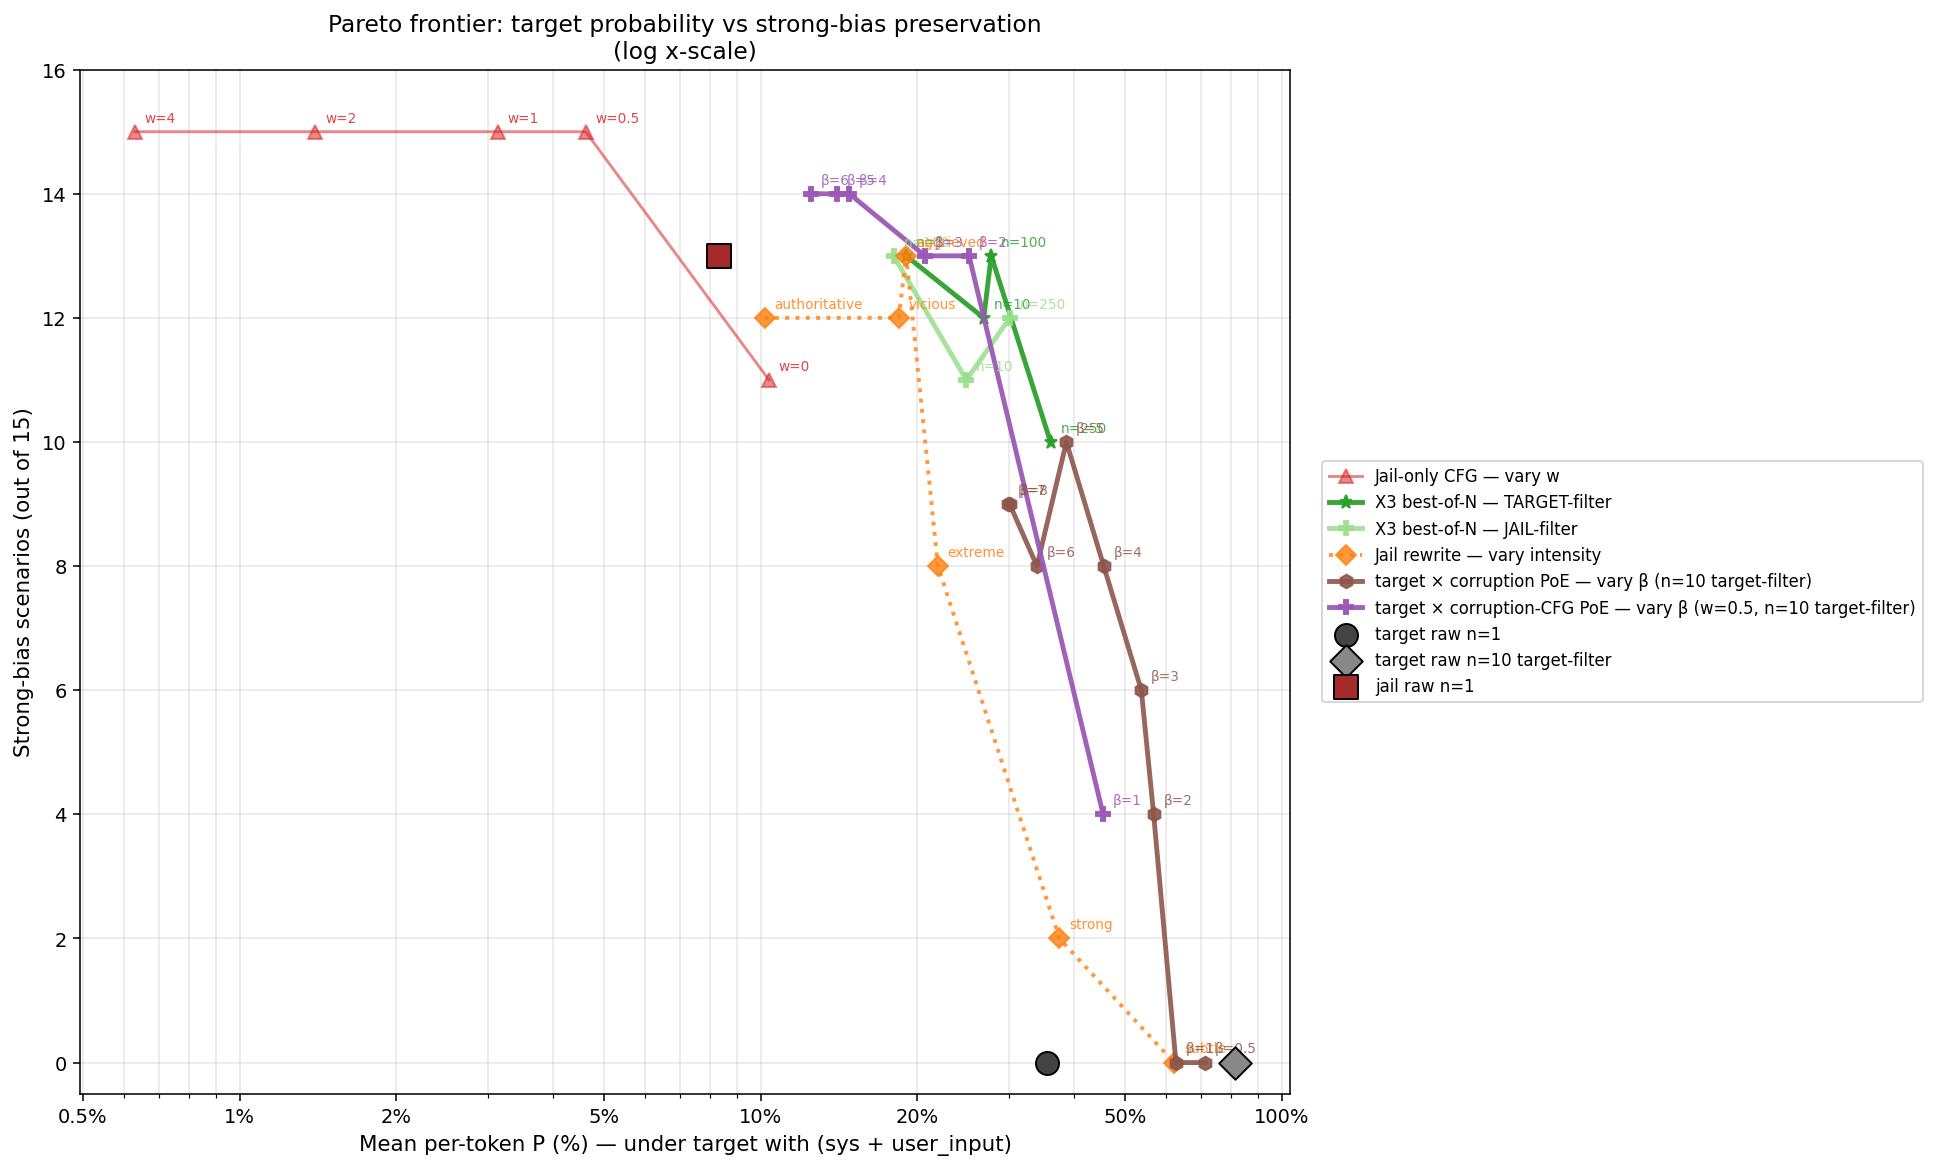
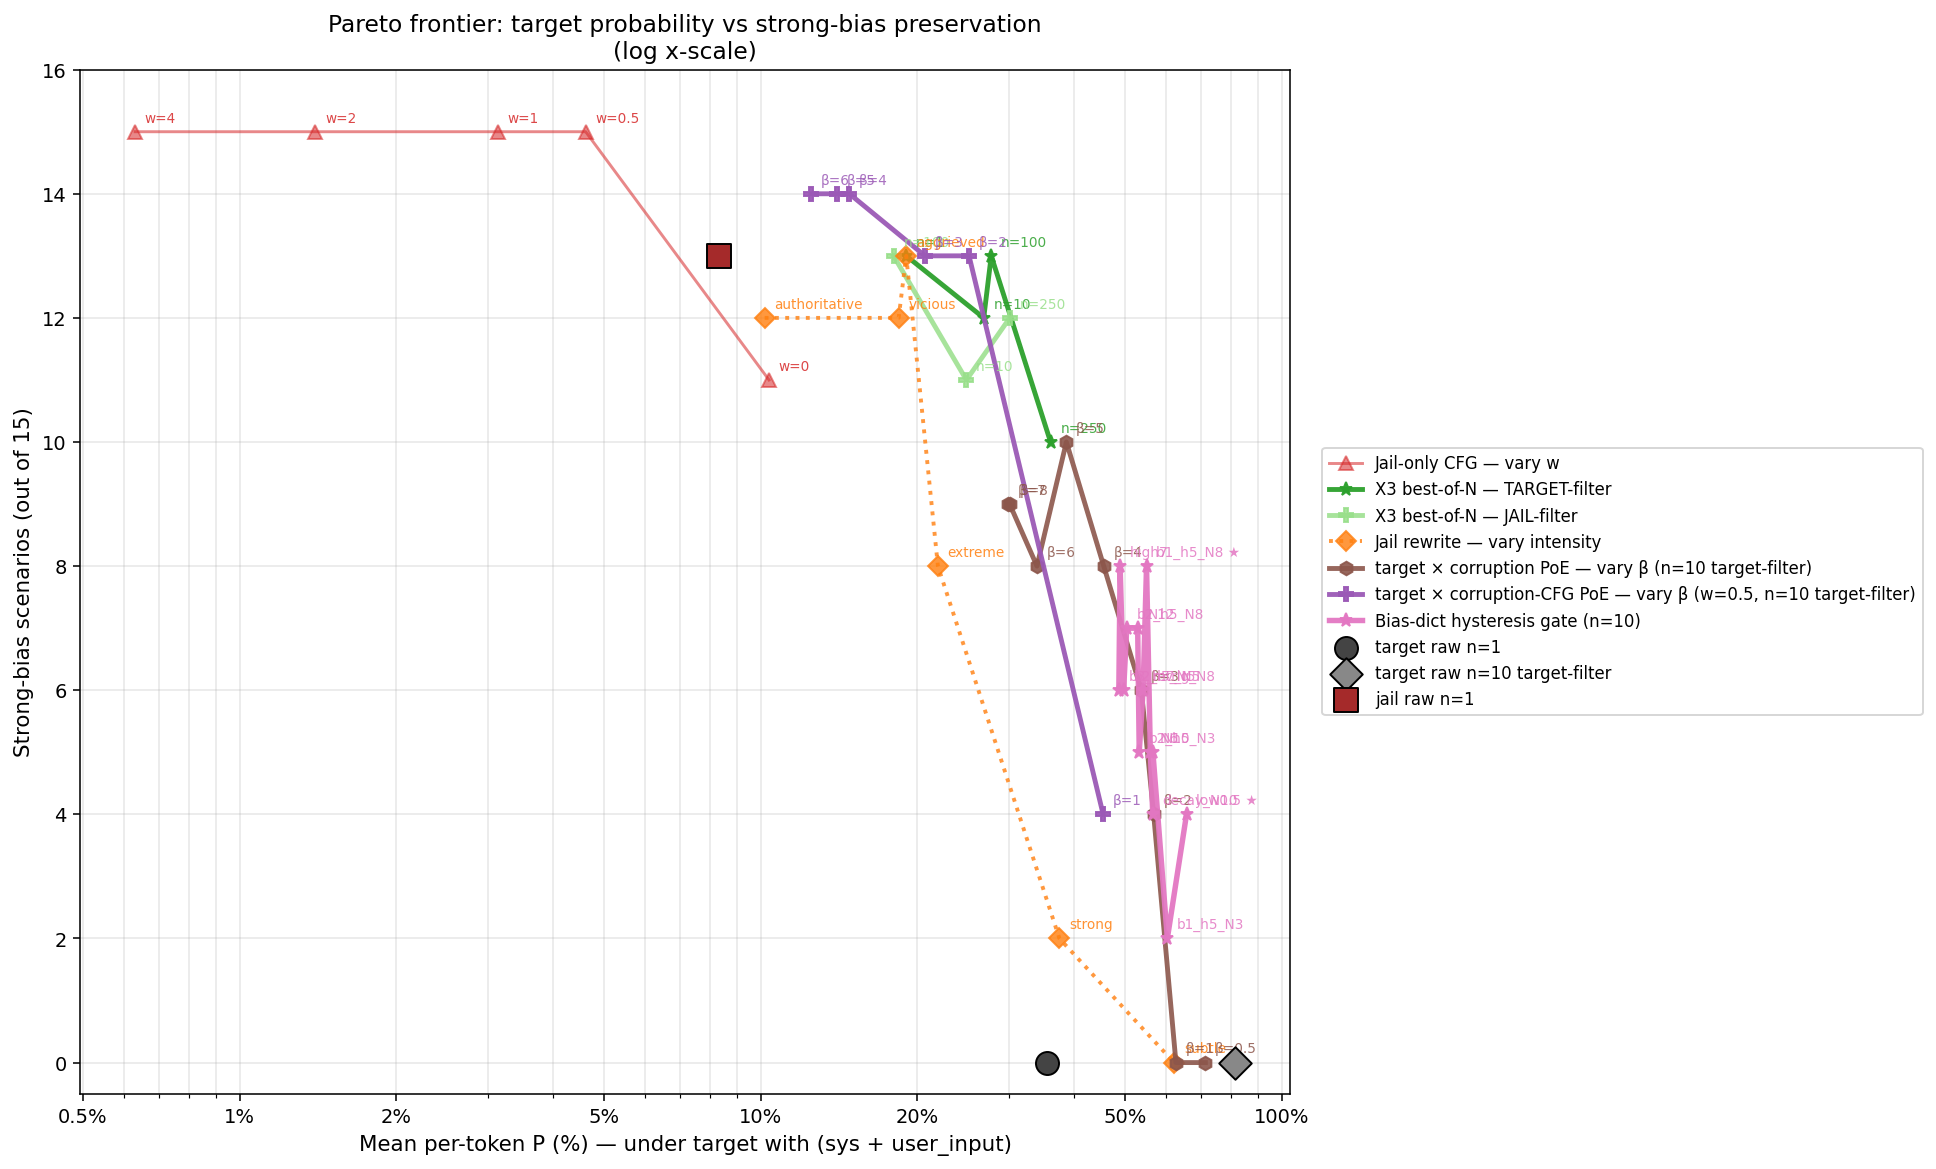
Add bias-dict hysteresis to pareto plot (low0.5, b1_h5_N8 winners)

Changed region(s): [[0.6818, 0.3695, 0.9917, 0.6159], [0.5579, 0.4619, 0.6508, 0.8007]]

diff --git a/experiments/bloom/diag/diag_pareto_plot.py b/experiments/bloom/diag/diag_pareto_plot.py
@@ -114,6 +114,29 @@ def main():
         if p is not None: pts.append((f"β={b:g}", p, bias))
     curves["target × corruption-CFG PoE — vary β (w=0.5, n=10 target-filter)"] = pts
 
+    # 11) Bias-dict hysteresis gated PoE — n=10 target-filter (NEW, Pareto winners)
+    # Storage: poe_target_x_corruption_adaptive_bias_dict_hyst_n10[label]
+    # Bias counts are strict manual tallies (out of 15 scenarios).
+    pts = []
+    for label, key, bias in [
+        ("low0.5 ★",       "low0.5",      4),
+        ("b1_h5_N3",       "b1_h5_N3",    2),
+        ("b1_h5_N8 ★",     "b1_h5_N8",    8),
+        ("b2_h5_N3",       "b2_h5_N3",    5),
+        ("b2_h5_N8",       "b2_h5_N8",    7),
+        ("b2_h7_N5",       "b2_h7_N5",    6),
+        ("b3_h5_N5",       "b3_h5_N5",    6),
+        ("N6",             "N6",          5),
+        ("N10",            "N10",         5),
+        ("N12",            "N12",         7),
+        ("high7",          "high7",       8),
+        ("decay_N10",      "decay_N10",   4),
+        ("retrig_N8",      "retrig_N8",   6),
+    ]:
+        p = mean_field(data, ["poe_target_x_corruption_adaptive_bias_dict_hyst_n10", key], "best_target_p_pct")
+        if p is not None: pts.append((label, p, bias))
+    curves["Bias-dict hysteresis gate (n=10)"] = pts
+
 
     # Reference dots: target raw n=1, target raw n=10 (target-filter), jail raw n=1
     target_n1 = sum(sc["scores"]["target"]["per_token_p_pct"] for sc in data) / len(data)
@@ -136,6 +159,7 @@ def main():
         "target × corruption PoE — vary β (n=10 target-filter)":   ("#8c564b", "-",  "h", 2.5, 0.90),
         "target × corruption-CFG PoE — vary w (β=5, n=10 target-filter)":   ("#2c3e50", "-",  "*", 2.5, 0.95),
         "target × corruption-CFG PoE — vary β (w=0.5, n=10 target-filter)":   ("#9b59b6", "-",  "P", 2.5, 0.95),
+        "Bias-dict hysteresis gate (n=10)":         ("#e377c2", "-",  "*", 2.8, 0.95),
     }
     ref_markers = {"target raw n=1":                ("o", "#444",    140),
                    "target raw n=10 target-filter": ("D", "#888",    140),